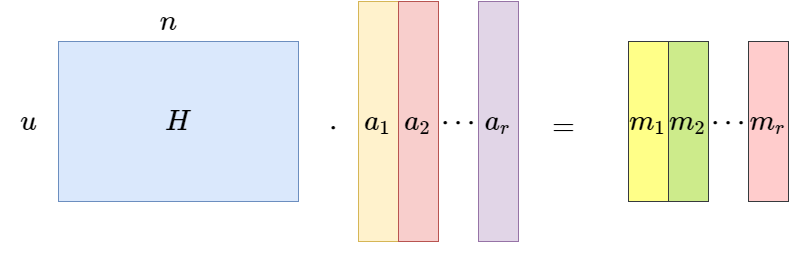
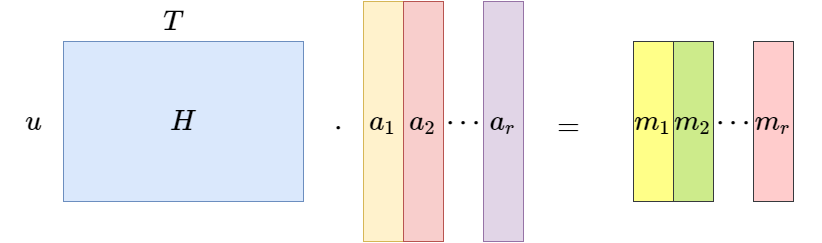
thesis

diff --git a/Thesis_Wu/Neural_decoder_design.tex b/Thesis_Wu/Neural_decoder_design.tex
@@ -503,7 +503,7 @@ When implementing it on GRU,
             z_t \\
             r_t
         \end{pmatrix} &=  \sigma( W_h h_{t-1} ) + \sigma( W_x x_t ) \\
-        \tilde{ h_t } &= \tanh( W x_t +  r_t \odot \left( U h_{t-1} \right) ) \\
+        \tilde{ h_t } &= \text{tanh}( W x_t +  r_t \odot \left( U h_{t-1} \right) ) \\
         h_t &= \left( 1- z_t \right) h_{t-1} + z_t \tilde{h_t}
     \end{split}
 \end{align}
@@ -516,7 +516,7 @@ When implementing it on GRU,
             z_t \\
             r_t
         \end{pmatrix} &=   \sigma( LN( W_h h_{t-1} ; \ \alpha_1, \ \beta_1 ) ) + \sigma( LN(  W_x x_t ; \ \alpha_2 , \ \beta_2 ) ) \\
-        \tilde{ h_t } &= \tanh(  LN( W x_t ; \ \alpha_3, \ \beta_3 ) +  r_t \odot LN( U h_{t-1} ; \ \alpha_4, \ \beta_4 ) ) \\
+        \tilde{ h_t } &= \text{tanh} (  LN( W x_t ; \ \alpha_3, \ \beta_3 ) +  r_t \odot LN( U h_{t-1} ; \ \alpha_4, \ \beta_4 ) ) \\
         h_t &= \left( 1- z_t \right) h_{t-1} + z_t \tilde{h_t}
     \end{split}
 \end{align}
@@ -575,7 +575,9 @@ The hidden states matrix,
     \end{split}
 \end{align}
 \noindent where $u$ is the number of hidden units and $ T $ is the length of each input sequence.
-The output of the attention module, the annotation vector, is computed as
+$T$ in our case it is the number of past time bins used to decode the current kinematic variables.
+The matrix $\bH$ is the temporal features calculated by RNN in each time step, which is $T$ time steps in total.
+Followed by the attention module, and it can give us the annotation vector, computed as
 \begin{align}
     \label{eq:annotation_vector_calculation}
     \begin{split}
@@ -585,9 +587,8 @@ The output of the attention module, the annotation vector, is computed as
 \end{align}
 \noindent where weight matrix $\bW_{s1} \in \mathbb{R}^{d_a \times 2u} $ and vector $\bw_{s2}  \in \mathbb{R}^{ 1 \times d_a }$.
 $d_a$ is an arbitrary hyperparameter.
-The annotation vector, $ \ba  \in \mathbb{R}^{ 1 \times T } $.
-In our case it is the number of past time bins used to decode the current kinematic variables.
-The softmax function $\mathbb{R}^K \rightarrow \mathbb{R}^K$ is defined as
+The annotation vector $ \ba  \in \mathbb{R}^{ 1 \times T } $ will have its elements re-distributed by a softmax function $\mathbb{R}^K \rightarrow \mathbb{R}^K$,
+which is defined as
 \begin{align}
     \begin{split}
     \text{softmax}( \bz )_i &= \frac{ e^{ \bz_i } }{ \sum^{K}_{j=1} e^{ \bz_j } } \\ 
@@ -596,14 +597,15 @@ The softmax function $\mathbb{R}^K \rightarrow \mathbb{R}^K$ is defined as
     \end{split}
 \end{align}
 \noindent such that the summation of the vector $ \ba $ is $1$.
-The embedding vector $ \bm \in \mathbb{R}^{1 \times 2u} $ is the new embedding matrix and can be fed into the next layer.
+The embedding vector $ \bm \in \mathbb{R}^{1 \times 2u} $ is the new features with enhanced temporal attribute.
+Every single feature from each neural time bin has been annotated by an score.
 
 % This explain fc in matrix form https://stackoverflow.com/questions/51608879/weights-matrix-final-fully-connected-layer
 
 The vector representation may focues on only one specific part of the input sequence, 
-and is expected to reflect an aspect in the sequence.
-Multiple aspects can be found if we implement multiple hops of attention to the same sequence.
-Another hyperparameter, $r$, is designed to determine how many different parts can be extracted from the sequence.
+and is expected to reflect only one \textit{aspect} in the sequence.
+Multiple aspects can be extracted if we implement multiple hops of attention to the same input sequence.
+Another hyperparameter, $r$ is designed to determine how many different parts can be extracted from the sequence.
 The representations from Eqation \ref{eq:annotation_vector_calculation} is now changed to the matrix form in Eqation \ref{eq:annotation_matrix_calculation},
 \begin{align}
     \label{eq:annotation_matrix_calculation}
